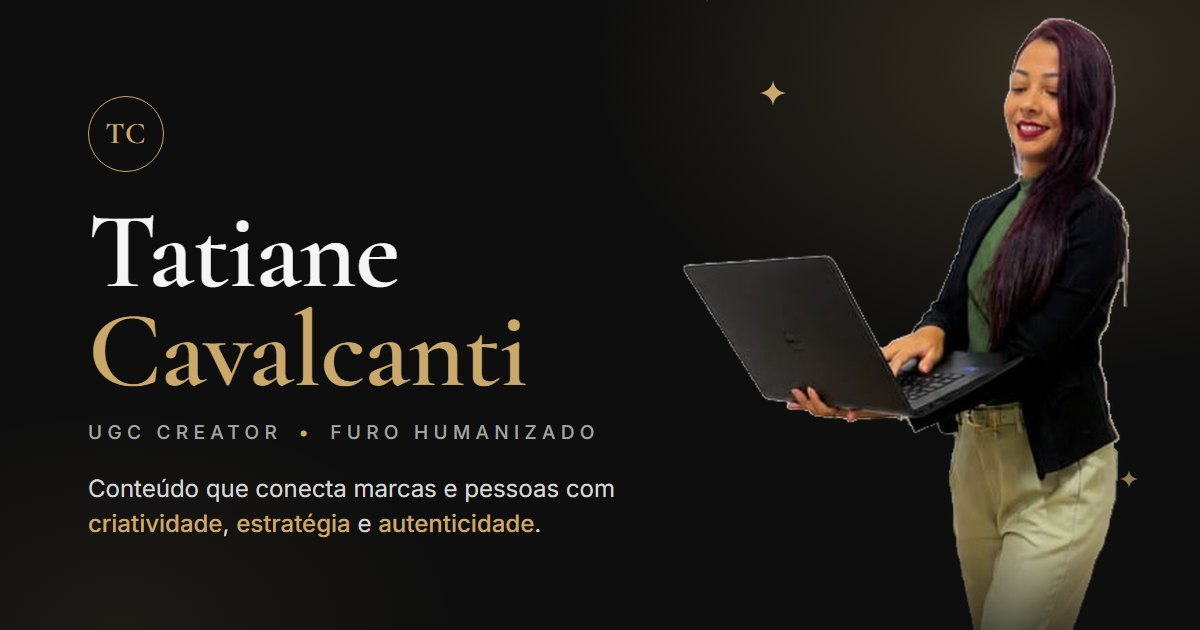
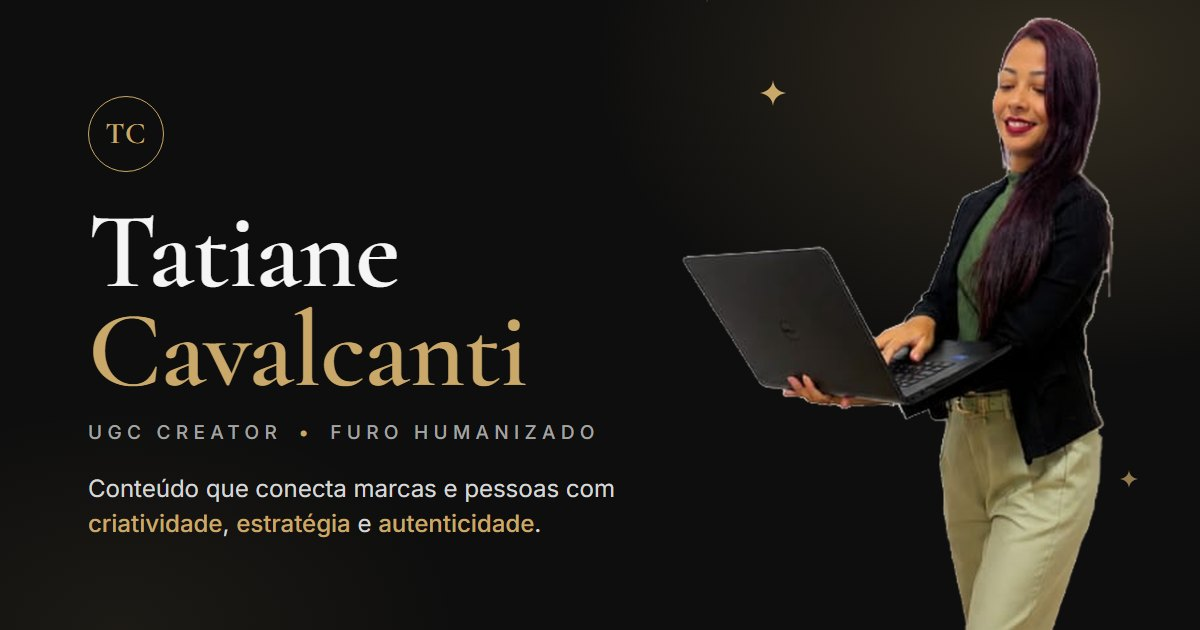
Foto de corpo inteiro no hero e configuração para a Vercel
- cutout.py sem corte no joelho (corpo inteiro, 476x960); piso tratado
  como fundo no fallback GrabCut
- Hero: coluna da foto 46%/48%, sem esmaecimento inferior; OG regenerada
- vercel.json (cache de assets/fontes + headers) e .vercelignore
- README: seção de publicação na Vercel

Changed region(s): [[0.6167, 0.0302, 0.9558, 1.0], [0.555, 0.3921, 0.7092, 0.4524], [0.5858, 0.4825, 0.6167, 0.573]]

diff --git a/css/style.css b/css/style.css
@@ -122,7 +122,7 @@ button { font: inherit; color: inherit; }
 .hero {
   position: relative;
   display: grid;
-  grid-template-columns: minmax(0, 1fr) 45%;
+  grid-template-columns: minmax(0, 1fr) 46%;
   grid-template-areas:
     "text photo"
     "cta  cta";
@@ -188,11 +188,7 @@ button { font: inherit; color: inherit; }
   transform: rotate(38deg);
   background: radial-gradient(circle at 50% 40%, rgba(201, 168, 106, .10), transparent 65%);
 }
-.hero__pic {
-  position: relative; z-index: 1; display: block;
-  -webkit-mask-image: linear-gradient(#000 74%, transparent 100%);
-          mask-image: linear-gradient(#000 74%, transparent 100%);
-}
+.hero__pic { position: relative; z-index: 1; display: block; }  /* corpo inteiro: sem esmaecer os pés */
 .hero__pic img { width: 100%; height: auto; }
 
 .hero__cta { margin-top: 20px; }
@@ -200,7 +196,7 @@ button { font: inherit; color: inherit; }
 
 @media (min-width: 520px) {
   .hero {
-    grid-template-columns: minmax(0, 1fr) 44%;
+    grid-template-columns: minmax(0, 1fr) 48%;
     grid-template-areas:
       "text photo"
       "cta  photo";

diff --git a/scripts/og.html b/scripts/og.html
@@ -26,7 +26,7 @@
     .og__tag { margin: 26px 0 0; font: 400 24px/1.45 var(--f-body); color: var(--ink-2); max-width: 560px; }
     .og__tag strong { color: var(--gold); font-weight: 500; }
     .og__photo { position: absolute; right: 56px; top: 0; height: 630px; width: 470px; overflow: hidden; }
-    .og__photo img { height: 680px; width: auto; display: block; margin-top: 10px;
+    .og__photo img { height: 900px; width: auto; display: block; margin-top: 10px;  /* corpo inteiro: mostra até a coxa */
       -webkit-mask-image: linear-gradient(#000 78%, transparent 100%); mask-image: linear-gradient(#000 78%, transparent 100%); }
     .og__arc { position: absolute; right: -40px; top: -160px; width: 560px; height: 560px; border-radius: 50%;
       border: 1px solid var(--line); border-left-color: transparent; border-bottom-color: transparent; transform: rotate(-20deg); }

diff --git a/index.html b/index.html
@@ -140,7 +140,7 @@
       <span class="hero__arc" aria-hidden="true"></span>
       <picture class="hero__pic">
         <source srcset="assets/tati.webp" type="image/webp">
-        <img src="assets/tati.png" width="516" height="760" alt="Tatiane Cavalcanti sorrindo, segurando um notebook" fetchpriority="high" decoding="async">
+        <img src="assets/tati.png" width="476" height="960" alt="Tatiane Cavalcanti sorrindo, segurando um notebook" fetchpriority="high" decoding="async">
       </picture>
       <svg class="sparkle sparkle--photo" aria-hidden="true"><use href="#i-star4"/></svg>
     </figure>

diff --git a/scripts/cutout.py b/scripts/cutout.py
@@ -11,7 +11,7 @@ Requisitos: pip install opencv-python-headless pillow
 Opcional (bordas muito melhores): rembg ("pip install rembg[cpu]", exige VC++ Redistributable no Windows)
   ou Node + "npm i onnxruntime-web" + modelo em scripts/_raw/isnet-general-use.onnx (ver ISNET_URL).
 
-O GrabCut foi calibrado para ESTA foto (parede cinza-clara, sombra quente à direita, calça verde-sálvia).
+O GrabCut foi calibrado para ESTA foto (parede cinza-clara, sombra quente à direita, calça verde-sálvia, piso de madeira).
 Se a cliente mandar outra foto, prefira o rembg ou ajuste as constantes abaixo.
 """
 import sys
@@ -27,9 +27,9 @@ OUT_WEBP = ROOT / "assets" / "tati.webp"
 OUT_PNG = ROOT / "assets" / "tati.png"
 PREVIEW = ROOT / "scripts" / "_raw" / "preview.png"
 
-CROP_Y1 = 520          # linha (no original) acima do rodapé/chão — ficamos da cabeça até o joelho
+CROP_Y1 = None         # None = corpo inteiro (cabeça aos sapatos). Use 520 para cortar acima do rodapé/chão (até o joelho)
 RECT = (395, 15, 770)  # x0, y0, x1 do retângulo "provavelmente frente" (y1 = CROP_Y1)
-OUT_HEIGHT = 760       # altura final em px (largura segue a proporção); exibida a no máx. ~230 css px de largura => 2x DPR
+OUT_HEIGHT = 960       # altura final em px (largura segue a proporção); exibida a no máx. ~250 css px de largura => 2x DPR
 
 # modelo do rembg, para o caminho WASM (git-ignored; ~176 MB)
 ISNET_URL = "https://github.com/danielgatis/rembg/releases/download/v0.0.0/isnet-general-use.onnx"
@@ -122,6 +122,10 @@ def cut_grabcut(bgr: np.ndarray) -> np.ndarray:
     mask = np.full(work.shape[:2], cv2.GC_PR_BGD, np.uint8)
     x0, y0, x1 = RECT
     mask[y0:, x0:x1] = cv2.GC_PR_FGD
+    # piso de madeira (quente e saturado) também é fundo
+    floor = (hue < 30) & (sat > 80) & (val > 110)
+    floor[:540, :] = False
+    wall = wall | floor
 
     # parede "certamente fundo": pixels de parede a mais de 6px de qualquer pixel não-parede
     dist_to_notwall = cv2.distanceTransform(wall.astype(np.uint8), cv2.DIST_L2, 3)
@@ -167,7 +171,9 @@ def main() -> None:
     if not RAW.exists():
         sys.exit(f"Foto original não encontrada: {RAW}")
 
-    bgr = cv2.imread(str(RAW))[:CROP_Y1]
+    bgr = cv2.imread(str(RAW))
+    if CROP_Y1:
+        bgr = bgr[:CROP_Y1]
 
     alpha = None
     if not force_grabcut:

diff --git a/README.md b/README.md
@@ -30,7 +30,7 @@ Para mudar a mensagem, codifique o texto (ex.: `encodeURIComponent` no console d
 | Domínio final (`https://DOMINIO/`) | `index.html` (canonical, og:url, og:image, JSON-LD, linha do site no contato), `.htaccess` |
 | E-mail de contato | `index.html` — bloco `TODO:EMAIL` comentado no card de contato |
 | QR code com o domínio final | `python scripts/make_qr.py https://dominio/` |
-| HTTPS forçado | `.htaccess` — descomentar o bloco **só depois** que o AutoSSL do cPanel emitir o certificado |
+| HTTPS forçado (só HostGator) | `.htaccess` — descomentar o bloco **só depois** que o AutoSSL do cPanel emitir o certificado. Na Vercel é automático |
 
 ## Regenerar assets
 
@@ -67,6 +67,17 @@ npx playwright screenshot --viewport-size=1200,630 --wait-for-timeout=1500 scrip
 python -m http.server 8080
 # http://localhost:8080
 ```
+
+## Publicar na Vercel (domínio novo)
+
+O repo já tem `vercel.json` (cache das fontes/assets + headers de segurança) e `.vercelignore`
+(não sobe `scripts/`, `dist/`, README, `.htaccess`). Sem build: framework preset **Other**, root `/`.
+
+1. vercel.com → **Add New → Project** → importar `Dgouveia1/tatiane-cavalcante` → Deploy.
+2. **Settings → Domains** → adicionar o domínio final → apontar o DNS conforme a Vercel indicar
+   (registro `A` para `76.76.21.21` ou `CNAME` para `cname.vercel-dns.com`). SSL é automático.
+3. Depois que o domínio responder: trocar `DOMINIO` (ver "Pendências"), regerar QR/OG, commit + push
+   (a Vercel redeploya sozinha a cada push na `main`).
 
 ## Publicar no cPanel (HostGator)
 
